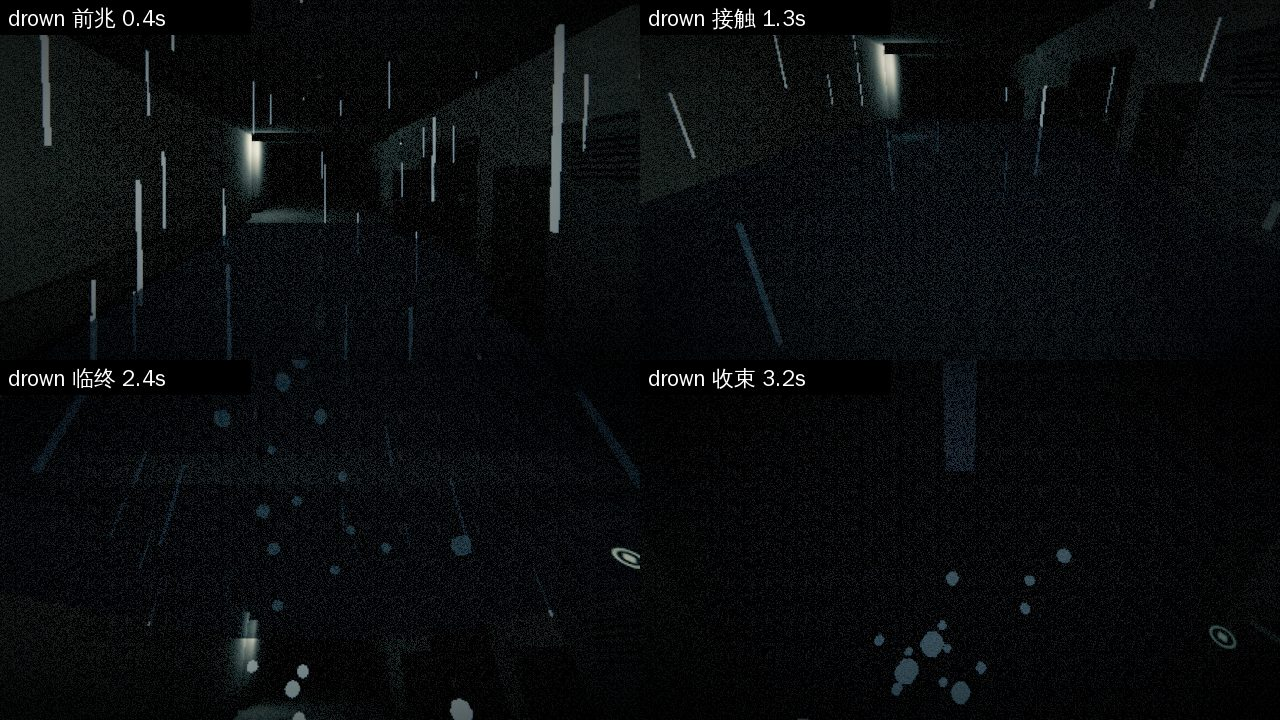
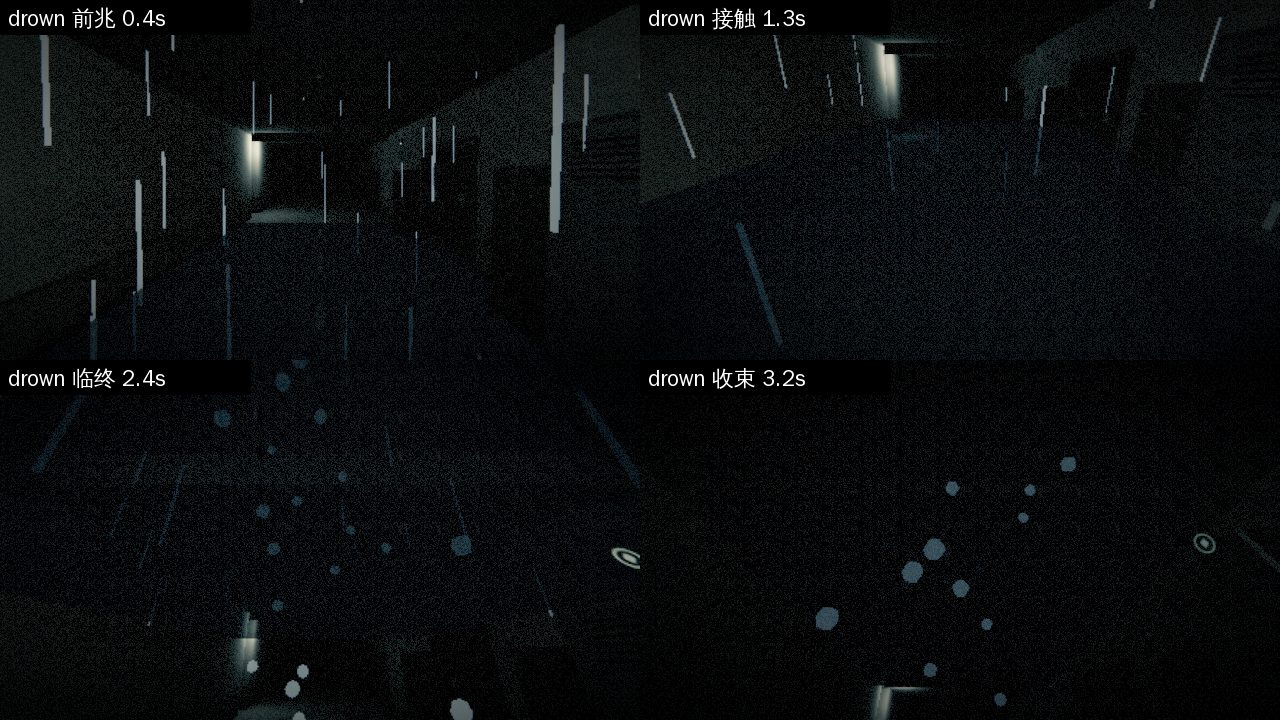
死亡演出：重做食堂深坑、水杯砸中、仪式圈、无尽走廊、熄灯、笑；修正镜头升降时的视线
- 深坑：菜在抖，桌下裂开黑坑，掉下去时头顶的光越来越小
- 水杯：抬头看见它掉下来，砸中后倒地，看着杯身和杯盖滚开
- 仪式：烛火朝你歪，石子立起绕圈拉成笼子，圈外站起一圈人，蜡烛一根根灭
- 走廊：门框迎面滑过没有尽头，越来越窄，远处的灯先灭，最近的门框里站着一个人
- 熄灯：灯闪几下后从远到近灭，黑暗里最后一盏亮两下，每次那个人都更近
- 笑：笑脸一张张凑近绕圈，镜头跟着发抖，大笑脸贴到面前
- 引擎：镜头随死亡演出下沉／抬升时，注视点一起移动（以前一沉就变成仰视）；去掉旧的地面死亡额外下沉
- 20 种死法的四段截图按修正后的镜头重拍

Claude-Session: https://claude.ai/code/session_011CA8sN38sG1RtaArdSjX9J

diff --git a/game3d/js/fx/death-cg.js b/game3d/js/fx/death-cg.js
@@ -118,10 +118,10 @@ var DeathCG=(function(){
       var peek=ss(k,0,0.5), rise=ss(k,0.5,1.6), bend=ss(k,1.6,2.6), end=ss(k,2.6,3.4);
       var lift=1.3*end, cy=EYE+lift;
       var top=new THREE.Vector3(0,2.1+0.35*peek+2.6*rise,2.8);
-      var near=new THREE.Vector3(0,cy+0.05,0.5-0.15*end);
+      var near=new THREE.Vector3(0,cy+0.02,0.75-0.2*end);
       var hp=new THREE.Vector3(); lerp3(hp,top,near,bend); hp.y+=Math.sin(bend*Math.PI)*0.9;
       c.head.position.copy(hp);
-      c.head.scale.setScalar(1+0.35*bend+0.6*end);
+      c.head.scale.setScalar(1+0.3*bend+0.35*end);
       c.head.rotation.y=Math.atan2(-hp.x,-hp.z)*bend+Math.PI*(1-bend);   /* 先是后脑勺对着墙这边，弯过来时转成正脸 */
       c.head.rotation.x=0.3*bend;
       /* 脖子：从墙后的肩膀沿一条弯线连到头 */
@@ -137,7 +137,7 @@ var DeathCG=(function(){
       });
       /* 先抬头跟着它往上看，它弯下来时视线落回正前方，最后被拎离地面 */
       var look=Math.atan2(hp.y-cy,Math.max(0.3,hp.z));
-      c.cam(view,k,0,look*(1-end)+0.25*end,lift);
+      c.cam(view,k,0,look*(1-end),lift);
       c.shade(0.9*ss(k,3.0,3.4));
     }
   };
@@ -488,6 +488,184 @@ var DeathCG=(function(){
         p.rotation.x=(1-turn)*0.3*Math.max(0,beat)+0.35*lean;
       });
       c.shade(0.9*ss(k,3.0,3.4));
+    }
+  };
+
+  /* ---- deep：食堂盛宴。桌上的菜在抖，桌下的地裂成一个黑坑一路裂到脚下，你掉下去，头顶的光越来越小 ---- */
+  CG.deep={
+    build:function(c){
+      var i,r=c.rand;
+      c.table=new THREE.Group(); c.add(c.table,0,0,1.5);
+      var wood=mat(0x4a3626), plate=mat(0xd8d0c0), food=mat(0x8a2a1e);
+      var top=new THREE.Mesh(new THREE.BoxGeometry(2.4,0.08,0.9),wood); top.position.y=0.78; c.table.add(top);
+      [[-1.1,-0.38],[1.1,-0.38],[-1.1,0.38],[1.1,0.38]].forEach(function(l){ var g=new THREE.Mesh(new THREE.BoxGeometry(0.06,0.76,0.06),wood); g.position.set(l[0],0.38,l[1]); c.table.add(g); });
+      c.dishes=[];
+      for(i=0;i<6;i++){
+        var d=new THREE.Group(), pl=new THREE.Mesh(new THREE.CylinderGeometry(0.16,0.13,0.03,14),plate), fd=new THREE.Mesh(new THREE.SphereGeometry(0.1,10,6,0,6.283,0,Math.PI/2),food);
+        fd.position.y=0.015; d.add(pl); d.add(fd); d.position.set(-0.9+i*0.36,0.83,(i%2?0.18:-0.15)); d.userData.ph=r()*6; c.table.add(d); c.dishes.push(d);
+      }
+      c.pit=c.mesh(new THREE.CircleGeometry(1,32),mat(0x010203),0,0.014,1.4); c.pit.rotation.x=-Math.PI/2;
+      c.shaft=c.mesh(new THREE.CylinderGeometry(1.2,1.2,14,24,1,true),mat(0x0a0c0e,undefined,{side:THREE.DoubleSide}),0,-7,0);
+      c.mouth=c.mesh(new THREE.RingGeometry(1.2,9,32),mat(0x6c7176,undefined,{side:THREE.DoubleSide}),0,0.0,0); c.mouth.rotation.x=Math.PI/2;
+      c.veil(0x000000);
+    },
+    update:function(c,k,view){
+      var open=ss(k,0.8,1.6), fall=seg(k,1.6,2.9);
+      c.cam(view,k,0,-0.38*(1-ss(k,1.6,1.9))-0.7*ss(k,1.6,1.9)*(1-ss(k,1.95,2.5))+1.25*ss(k,2.0,2.6),-9*fall*fall);
+      c.dishes.forEach(function(d,i){ d.position.y=0.83+0.012*Math.abs(Math.sin(k*20+d.userData.ph))*seg(k,0,1.0); });
+      c.pit.position.z=1.4-1.4*open; c.pit.scale.setScalar(0.05+1.15*open);
+      c.pit.visible=k<1.6;
+      var tip=ss(k,1.0,1.6);
+      c.table.position.y=-2.4*tip*tip; c.table.rotation.x=0.6*tip; c.table.visible=k<1.9;
+      c.shaft.visible=c.mouth.visible=k>=1.6;
+      c.shade(0.92*ss(k,2.9,3.4));
+    }
+  };
+
+  /* ---- floor：清华水杯。头顶一声哨音，抬头看见它掉下来，砸中，倒在地上看着它滚走 ---- */
+  CG.floor={
+    build:function(c){
+      c.cup=new THREE.Group(); c.add(c.cup,0,EYE+9,0.15);
+      var body=new THREE.Mesh(new THREE.CylinderGeometry(0.045,0.04,0.2,14),mat(0xc8ccd0)); c.cup.add(body);
+      c.lid=new THREE.Mesh(new THREE.CylinderGeometry(0.05,0.05,0.045,14),mat(0x6a2c91)); c.lid.position.y=0.12; c.cup.add(c.lid);
+      c.veil(0x050000);
+    },
+    update:function(c,k,view){
+      var hit=ss(k,1.15,1.55), lie=seg(k,1.6,2.6);
+      c.cam(view,k,0.35*hit,1.1*ss(k,0.1,0.7)*(1-hit)-0.3*hit,-1.45*hit);
+      var f=Math.pow(seg(k,0.2,1.15),2), h=9*(1-f);
+      if(k<1.15){ c.cup.position.set(0,EYE+h,0.15+h*0.5); c.cup.rotation.set(k*14,0,0.3); c.lid.position.set(0,0.12,0); }
+      else{
+        /* 落地以后：杯身横着往前滚，杯盖滚到另一边 */
+        c.cup.position.set(-0.22-0.15*lie,0.045,0.75+0.3*lie);          /* 镜头往一侧偏了，杯子落在视线里 */
+        c.cup.rotation.set(lie*9,0,Math.PI/2);
+        c.lid.position.set(0.25+0.6*lie,0,0.1*lie);
+      }
+      c.flash('hit',k,1.15,0.4);
+      c.shade(0.3*ss(k,1.15,1.3)*(1-ss(k,1.3,1.8))+0.9*ss(k,2.5,3.0));
+    }
+  };
+
+  /* ---- ring：实验楼仪式。脚下的粉笔圈、四周的蜡烛火苗朝你歪，石子立起来绕着转成笼子，圈外站起一圈人，蜡烛一根根灭 ---- */
+  CG.ring={
+    build:function(c){
+      var i,r=c.rand;
+      c.circle=c.mesh(new THREE.RingGeometry(2.0,2.06,48),mat(0xd8d4cc,0.85,{side:THREE.DoubleSide}),0,0.012,0); c.circle.rotation.x=-Math.PI/2;
+      c.flames=[];
+      for(i=0;i<5;i++){
+        var a=i/5*6.283+0.3, x=Math.cos(a)*1.7, z=Math.sin(a)*1.7;
+        c.box(0.05,0.2,0.05,0xe8e0cc,undefined,x,0.1,z);
+        var fl=c.mesh(new THREE.SphereGeometry(0.03,6,4),mat(0xffc860),x,0.24,z); fl.userData.f={x:x,z:z,i:i}; c.flames.push(fl);
+      }
+      c.stones=[];
+      for(i=0;i<16;i++){ var s=c.box(0.08,0.08,0.08,0xd8d4cc,undefined,0,0,0); s.userData.s={a:i/16*6.283,d:r()*0.5,h:0.4+(i%4)*0.45}; c.stones.push(s); }
+      c.robes=[];
+      for(i=0;i<6;i++){
+        var ra=i/6*6.283+0.5, f=c.fig('tall',0x050607,1,Math.cos(ra)*3.3,Math.sin(ra)*3.3);
+        f.rotation.y=Math.atan2(-f.position.x,-f.position.z); f.userData.r=f.position.clone(); c.robes.push(f);
+      }
+      c.veil(0x000000);
+    },
+    update:function(c,k,view){
+      c.cam(view,k,0.9*ss(k,1.8,3.2),-0.45*ss(k,0,0.6)*(1-ss(k,1.6,2.2))+0.05,0);
+      var lean=ss(k,0.2,0.8), cage=ss(k,1.8,2.6);
+      c.flames.forEach(function(fl){
+        var u=fl.userData.f; fl.position.set(u.x*(1-0.06*lean),0.24,u.z*(1-0.06*lean));
+        fl.scale.set(1,1.8+0.3*Math.sin(k*13+u.i),1); fl.visible=k<2.7+u.i*0.12;
+      });
+      c.stones.forEach(function(s){
+        var u=s.userData.s, up=ss(k,0.8+u.d,1.4+u.d), ang=u.a+Math.max(0,k-0.8)*1.4*up+cage*1.2, rad=2.2-1.3*cage;
+        s.position.set(Math.cos(ang)*rad,0.05+up*u.h,Math.sin(ang)*rad);
+        s.scale.set(1,1+10*cage,1);                                       /* 石子拉长成笼子的栏杆 */
+      });
+      var stand=ss(k,1.6,2.4), bow=ss(k,2.7,3.3);
+      c.robes.forEach(function(f){ f.position.y=-1.9*(1-stand); f.rotation.x=0.3*bow; });
+      c.shade(0.92*ss(k,3.0,3.4));
+    }
+  };
+
+  /* ---- loop：无尽的走廊。一道道门框迎面滑过来没有尽头，走廊越来越窄，灯从远处一盏盏灭，最近的门框里站着一个人 ---- */
+  CG.loop={
+    build:function(c){
+      var i,wood=mat(0x6a4a32),wall=mat(0x4a4f55);
+      c.walls=[c.mesh(new THREE.BoxGeometry(0.1,2.8,26),wall,-1.3,1.4,13),c.mesh(new THREE.BoxGeometry(0.1,2.8,26),wall,1.3,1.4,13)];
+      c.frames=[];
+      for(i=0;i<10;i++){
+        var g=new THREE.Group();
+        [[-0.62,1.1,0.1,2.2],[0.62,1.1,0.1,2.2],[0,2.25,1.34,0.1]].forEach(function(b){ var m=new THREE.Mesh(new THREE.BoxGeometry(b[2],b[3],0.12),wood); m.position.set(b[0],b[1],0); g.add(m); });
+        var lamp=new THREE.Mesh(new THREE.BoxGeometry(0.5,0.04,0.12),mat(0xfff4dc,undefined,{fog:false})); lamp.position.set(0,2.72,1.2); g.add(lamp); g.userData.lamp=lamp;
+        c.add(g,0,0,2+i*2.4); c.frames.push(g);
+      }
+      c.man=c.fig('person',0x07090b,1,0,1.6); c.man.rotation.y=Math.PI; c.man.visible=false;
+      c.veil(0x000000);
+    },
+    update:function(c,k,view){
+      c.cam(view,k,0,-0.04,0);
+      var scroll=Math.max(0,k-0.8)*3.0-Math.max(0,k-2.8)*3.0, narrow=ss(k,2.2,2.8), L=24;
+      c.frames.forEach(function(g,i){
+        var z=((i*2.4-scroll)%L+L)%L*(1-0.45*narrow)+0.8;
+        g.position.z=z; g.scale.x=1-0.35*narrow;
+        g.userData.lamp.visible=!(k>2.2&&z>L*(1-seg(k,2.2,2.8))*0.6);   /* 远处的灯先灭 */
+      });
+      c.walls[0].position.x=-1.3+0.5*narrow; c.walls[1].position.x=1.3-0.5*narrow;
+      c.man.visible=k>2.95;
+      c.flash('man',k,2.95,0.2);
+      c.shade(0.9*ss(k,3.1,3.4));
+    }
+  };
+
+  /* ---- lamps：熄灯。头顶一排灯闪了几下，从远处开始一盏盏灭到你头上；黑暗里最后那盏又亮了两下，每亮一次那个人都更近 ---- */
+  CG.lamps={
+    build:function(c){
+      var i,lm=mat(0xfff2d0,undefined,{over:true,fog:false});
+      c.lamps=[];
+      for(i=0;i<8;i++){ var l=c.mesh(new THREE.BoxGeometry(0.9,0.05,0.16),lm,0,2.75,0.5+i*1.2); l.renderOrder=1000; c.lamps.push(l); }
+      c.pale=new THREE.Group(); c.pale.add(figMesh('tall',mat(0xa8aeb0,undefined,{over:true}),1)); c.add(c.pale,0,0,2.2);
+      c.pale.traverse(function(o){o.renderOrder=1001;}); c.pale.rotation.y=Math.PI; c.pale.visible=false;
+      c.veil(0x000000);
+    },
+    update:function(c,k,view){
+      c.cam(view,k,0,0.12*ss(k,0,0.5)-0.12*ss(k,1.0,2.0),0);
+      function on(a,b){ return k>=a&&k<b; }
+      c.lamps.forEach(function(l,i){
+        var lit=!(on(0.35,0.42)&&i%2)&&!on(0.7,0.78)&&k<1.0+(7-i)*0.15;
+        if(i===0) lit=lit||on(2.35,2.45)||on(2.6,2.66)||k>=3.05;
+        l.visible=lit;
+      });
+      var blink=on(2.35,2.45)?1:on(2.6,2.66)?2:k>=3.05?3:0;
+      c.pale.visible=blink>0;
+      c.pale.position.z=[2.2,2.2,1.3,0.55][blink];
+      c.flash('last',k,3.05,0.25);
+      c.shade(0.9*ss(k,1.4,2.3));                       /* 灯灭到哪里，黑到哪里；只剩灯和那个人看得见 */
+    }
+  };
+
+  /* ---- laugh：笑。四周的人一张张笑起来，笑脸越凑越近、绕着你转，你跟着笑得发抖，最后一张大笑脸贴到面前 ---- */
+  CG.laugh={
+    build:function(c){
+      var i,r=c.rand;
+      c.faces=[];
+      for(i=0;i<7;i++){
+        var a=-1.2+i*0.4+(r()-0.5)*0.15, d=2.2+r()*1.0, f=c.fx('smile',0.35,Math.sin(a)*d,0,Math.cos(a)*d);
+        f.userData.l={a:a,d:d,t:i*0.1+r()*0.1}; c.faces.push(f);
+      }
+      c.big=c.fx('smile',0.8,0,0,0.9); c.big.visible=false;
+      c.veil(0x0a0505);
+    },
+    update:function(c,k,view){
+      var near=ss(k,0.8,1.8), swirl=ss(k,1.8,2.6), end=ss(k,2.6,3.2);
+      c.cam(view,k,0,-0.02+0.06*Math.sin(k*16)*c.shk*seg(k,1.0,2.6)*(1-end),-0.15*Math.abs(Math.sin(k*8))*seg(k,1.0,2.6)*(c.shk?1:0.3));
+      var cy=c.camY();
+      c.faces.forEach(function(f){
+        var u=f.userData.l, s=0.35+0.35*near, d=u.d*(1-0.4*near)-(u.d*0.6-0.9)*swirl, a=u.a+(k-1.8)*0.8*swirl;
+        f.visible=k>u.t&&end<0.5;
+        f.scale.setScalar(s);
+        f.position.set(Math.sin(a)*d,cy-1.7*s+0.02*Math.sin(k*14+u.a*5),Math.cos(a)*d);
+        c.face(f);
+      });
+      c.big.visible=end>0;
+      var bs=0.8+0.6*end; c.big.scale.setScalar(bs); c.big.position.set(0,cy-1.7*bs,0.9-0.2*end); c.face(c.big);
+      c.shade(0.85*ss(k,2.95,3.2));
     }
   };
 

diff --git a/game3d/js/fx/anomaly-fx.js b/game3d/js/fx/anomaly-fx.js
@@ -336,18 +336,6 @@ function deathFX(type,options){
         grp.add(vf);push(vf);
       }
     }
-    else if(T==='floor'||T==='deep'){
-      var pl=new THREE.Mesh(new THREE.PlaneGeometry(10,10),anfxMat(0x020304,0.94));
-      pl.rotation.x=-Math.PI/2; pl.position.set(p.x,-1.0,p.z);
-      grp.add(pl); push(pl);
-      if(T==='deep'){
-        for(i=0;i<10;i++){
-          var a=i/10*6.283;
-          m=anfxBox(grp,dark,0.10,2.4,0.10,p.x+Math.cos(a)*0.9,-1.0,p.z+Math.sin(a)*0.9);
-          push(m);
-        }
-      }
-    }
     else if(T==='hand'){
       var gx=S.x+Math.cos(S.ang)*9, gy=S.y+Math.sin(S.ang)*9;
       var q=anfxW2S(gx,gy);
@@ -382,52 +370,6 @@ function deathFX(type,options){
         push(anfxBox(cf,anfxMat(0xd8d2c4,0.95),cw,0.09,0.02,
              -3.0+cw/2+Math.random()*(6.0-cw), 2.35-i*0.29, 2.54));
       }
-    }
-    else if(T==='loop'){
-      for(i=0;i<7;i++){
-        var lx3=p.x+Math.cos(S.ang+i*0.9)*(2.2+i*0.9);
-        var lz3=p.z+Math.sin(S.ang+i*0.9)*(2.2+i*0.9);
-        push(anfxBox(grp,anfxMat(0x3a2a1e,1.0),0.12,2.30,1.0,lx3,1.15,lz3));
-        push(anfxBox(grp,anfxMat(0x0d1114,1.0),0.10,2.10,0.82,lx3,1.05,lz3));
-        push(anfxBox(grp,anfxMat(0x2a1f16,1.0),0.16,0.10,1.14,lx3,2.32,lz3));
-      }
-    }
-    else if(T==='ring'){
-      for(i=0;i<16;i++){
-        var ra=i/16*6.283;
-        var rs=anfxBox(grp,anfxMat(0xd8d4cc,1.0),0.10,0.10,0.10,
-             p.x+Math.cos(ra)*2.2,0.02,p.z+Math.sin(ra)*2.2);
-        rs.userData={a:ra};
-        push(rs);
-      }
-      for(i=0;i<4;i++){                                    /* 四根蜡烛的火苗，一起朝你歪 */
-        var ca5=i/4*6.283+0.6;
-        anfxBox(grp,anfxMat(0xffc860,1.0),0.05,0.12,0.05,p.x+Math.cos(ca5)*1.6,0.30,p.z+Math.sin(ca5)*1.6).rotation.z=0.5;
-      }
-    }
-    else if(T==='lamps'){
-      for(i=0;i<16;i++){
-        var ra2=i/16*6.283;
-        var lm3=anfxBox(grp,anfxMat(0xfff2d0,1.0),0.26,0.10,0.26,
-             p.x+Math.cos(ra2)*2.25,2.55,p.z+Math.sin(ra2)*2.25);
-        lm3.visible=false; lm3.userData={i:i};
-        push(lm3);
-      }
-      var lh=anfxBox(grp,anfxMat(0x0a0d10,0.55),7.0,0.04,7.0,p.x,2.78,p.z);
-      push(lh);
-    }
-    else if(T==='laugh'){
-      for(i=0;i<16;i++){
-        var la=(i/16)*6.283+Math.random()*0.35, lr=0.30+Math.random()*0.55;
-        var cc2=anfxBox(grp,anfxMat(0xe8ece6,0.88),0.028,0.028,1.0,
-             p.x+Math.cos(la)*lr, 1.35+Math.random()*0.75, p.z+Math.sin(la)*lr);
-        cc2.rotation.y=Math.PI/2-la;
-        cc2.userData={a:la,r:lr};
-        push(cc2);
-      }
-      var lsh=anfxBox(grp,anfxMat(0x0a0d10,0.42),6.0,0.02,6.0,p.x,1.2,p.z);
-      lsh.rotation.y=-Math.PI/2-S.ang;
-      push(lsh);
     }
     else if(T==='mirror'){
       var mq=anfxW2S(S.x+Math.cos(S.ang)*1.55, S.y+Math.sin(S.ang)*1.55);
@@ -553,13 +495,6 @@ function anfxUpdate(dt){
       view.eyeLift=-0.8*clamp(tp/0.5,0,1);
       view.pitch=0.65*clamp(tp/0.25,0,1);
       try{syncCamera(0,preview?view:null);}catch(e){}
-    } else if(dtp==='floor'||dtp==='deep'){
-      /* 镜头往下沉，黑水一样的地面往上漫，在 1.8 秒左右合上 */
-      for(it=0;it<ANFX.items.length;it++){
-        ob=ANFX.items[it];
-        if(ob.geometry&&ob.geometry.type==='PlaneGeometry') ob.position.y=Math.min(GLR.cam.position.y-0.08,-1.0+kk*0.95);
-        else ob.position.y=-1.2+Math.min(2.6,kk*1.1);
-      }
     } else if(dtp==='vignette'){
       /* 按经过的时间算：先在 4 米外站定，再一个接一个往里走，最后贴到身边、微微俯下来 */
       var vc=ANFX.items[0].position;
@@ -573,31 +508,6 @@ function anfxUpdate(dt){
         ob.rotation.x=0.18*clamp((2.4-vr)/1.6,0,1);
         ob.visible=kk>vu.delay*0.6;
       }
-    } else if(dtp==='lamps'){
-      /* 一圈灯依次亮起，然后一起压到头顶（以前这些灯永远不可见） */
-      var conv=Math.min(1,Math.max(0,(kk-1.4)/1.2));
-      var pc=anfxW2S(S.x,S.y);
-      for(it=0;it<ANFX.items.length;it++){
-        ob=ANFX.items[it]; var lu=ob.userData||{};
-        if(lu.i===undefined) continue;
-        ob.visible=(kk*11>lu.i);
-        var la2=lu.i/16*6.283+conv*1.2, lr2=2.25-conv*1.9;
-        ob.position.set(pc.x+Math.cos(la2)*lr2, 2.55-conv*0.55, pc.z+Math.sin(la2)*lr2);
-        ob.scale.setScalar(1+conv*1.6);
-      }
-      try{ GLR.flash=Math.max(GLR.flash||0,conv*0.9); }catch(e){}
-    } else if(dtp==='laugh'){
-      var pa2=anfxW2S(S.x,S.y);
-      for(it=0;it<ANFX.items.length;it++){
-        ob=ANFX.items[it]; var lu=ob.userData||{};
-        if(lu.a===undefined) continue;
-        var grow=0.25+kk*1.9;
-        ob.scale.z=grow;
-        var r0=lu.r+grow*0.5;
-        ob.position.x=pa2.x+Math.cos(lu.a)*r0;
-        ob.position.z=pa2.z+Math.sin(lu.a)*r0;
-      }
-      try{ GLR.flash=Math.max(GLR.flash||0,Math.max(0,0.85-kk*0.5)); }catch(e){}
     } else if(dtp==='mirror'){
       var mg=ANFX.items[ANFX.items.length-1];
       if(mg&&mg.position){
@@ -647,12 +557,6 @@ function anfxUpdate(dt){
         var cy=ob.userData.deathOrigin.y;
         if(cy>0.4&&cy<2.5) ob.position.y=cy-Math.min(0.9,kk*0.55);
       }
-    } else if(dtp==='loop'){
-      var camL=GLR.cam.position;
-      for(it=0;it<ANFX.items.length;it++){
-        ob=ANFX.items[it]; var lu2=ob.userData||{};
-        ob.position.x=lu2.deathOrigin.x+Math.sin(kk*2+it*0.4)*0.04;
-      }
     } else if(dtp==='slit'&&ANFX.slit){
       /* 按经过的时间：0–0.7 秒门缝里一道光；0.7–1.6 秒门缝拉开、从中间挤过去；
          1.6–3.0 秒马路尽头的校门迎面过来；最后身前又一扇门合上 */
@@ -685,16 +589,6 @@ function anfxUpdate(dt){
         ob.position.set(hu.deathOrigin.x+(handPlayer.x-hu.deathOrigin.x)*handReach*0.68,
           -0.35+handRise*1.45,hu.deathOrigin.z+(handPlayer.z-hu.deathOrigin.z)*handReach*0.68);
         ob.rotation.x=-0.8+handRise*0.8+handReach*0.35;
-      }
-    } else if(dtp==='ring'){
-      /* 地上的石子一颗颗立起来，绕着你转，越收越紧，最后成了一个笼子 */
-      var pr=anfxW2S(S.x,S.y);
-      for(it=0;it<ANFX.items.length;it++){
-        ob=ANFX.items[it]; var ru=ob.userData||{};
-        if(ru.a===undefined) continue;
-        var ang2=ru.a+kk*(1.2+kk*0.4), rad2=Math.max(0.75,2.2-kk*0.55);
-        ob.position.set(pr.x+Math.cos(ang2)*rad2, Math.min(2.4,0.05+kk*0.7*(1+(it%4)*0.35)), pr.z+Math.sin(ang2)*rad2);
-        ob.scale.set(1,1+Math.min(12,kk*5),1);
       }
     } else {
       /* 其它：一个黑影从前方走到你面前（以前这里的 z 坐标算成了两倍） */

diff --git a/game3d/js/engine/scene.js b/game3d/js/engine/scene.js
@@ -169,7 +169,6 @@ ThreeBackend.syncCamera=function(dt,view){
   var dyOff=0, dzOff=0, shake=0;
   if(S.dead){
     var k=S.deadT||0;
-    if(S.death==='floor'||S.death==='deep'){ dyOff=-Math.min(1.25,k*0.62); }
     shake=Math.max(0,1-k*0.5);
   }
   if(GLR.gazeShake&&!S.dead) shake=Math.max(shake,GLR.gazeShake);   /* 被盯着的时候，镜头在抖 */
@@ -193,7 +192,8 @@ ThreeBackend.syncCamera=function(dt,view){
   }
   var angle=view?view.ang:S.ang, spitch=(view?view.pitch:S.pitch)+(S.seated?-0.06:0);
   var dir=new THREE.Vector3(Math.cos(angle)*Math.cos(spitch),Math.sin(spitch),Math.sin(angle)*Math.cos(spitch));
-  GLR.cam.lookAt(p.x+dir.x, S.eyeH+bob+dir.y+(S.floorY||0), p.z+dir.z);
+  /* 目标点也要跟着死亡演出的升降走，否则镜头一沉就变成仰视 */
+  GLR.cam.lookAt(p.x+dir.x, S.eyeH+bob+dir.y+(cameraLift||0)+(S.floorY||0), p.z+dir.z);
 };
 
 ThreeBackend.draw=function(dt){

diff --git a/game3d/js/fx/death-timeline.js b/game3d/js/fx/death-timeline.js
@@ -3,10 +3,10 @@
 
 var DeathTimeline=(function(){
   var durations={
-    vignette:2,floor:2,grip:3.2,neck:3.4,shadow:3.2,swarm:3.2,drown:3.4,
+    vignette:2,floor:3,grip:3.2,neck:3.4,shadow:3.2,swarm:3.2,drown:3.4,
     water:3.4,freeze:3.4,gaze:3.4,stare:3.2,voice:3.2,bell:3.4,follow:3.4,
-    shatter:3.2,deep:2,ring:2.6,names:2,chalk:2,loop:2,twin:3.2,
-    lamps:2.6,slit:3.6,squeeze:3.6,face:3,wall:2,laugh:2,mirror:2,hand:2,trash:3.6
+    shatter:3.2,deep:3.4,ring:3.4,names:2,chalk:2,loop:3.4,twin:3.2,
+    lamps:3.4,slit:3.6,squeeze:3.6,face:3,wall:2,laugh:3.2,mirror:2,hand:2,trash:3.6
   };
   function duration(type){return durations[type]||durations.vignette;}
   function sample(type,elapsed){
